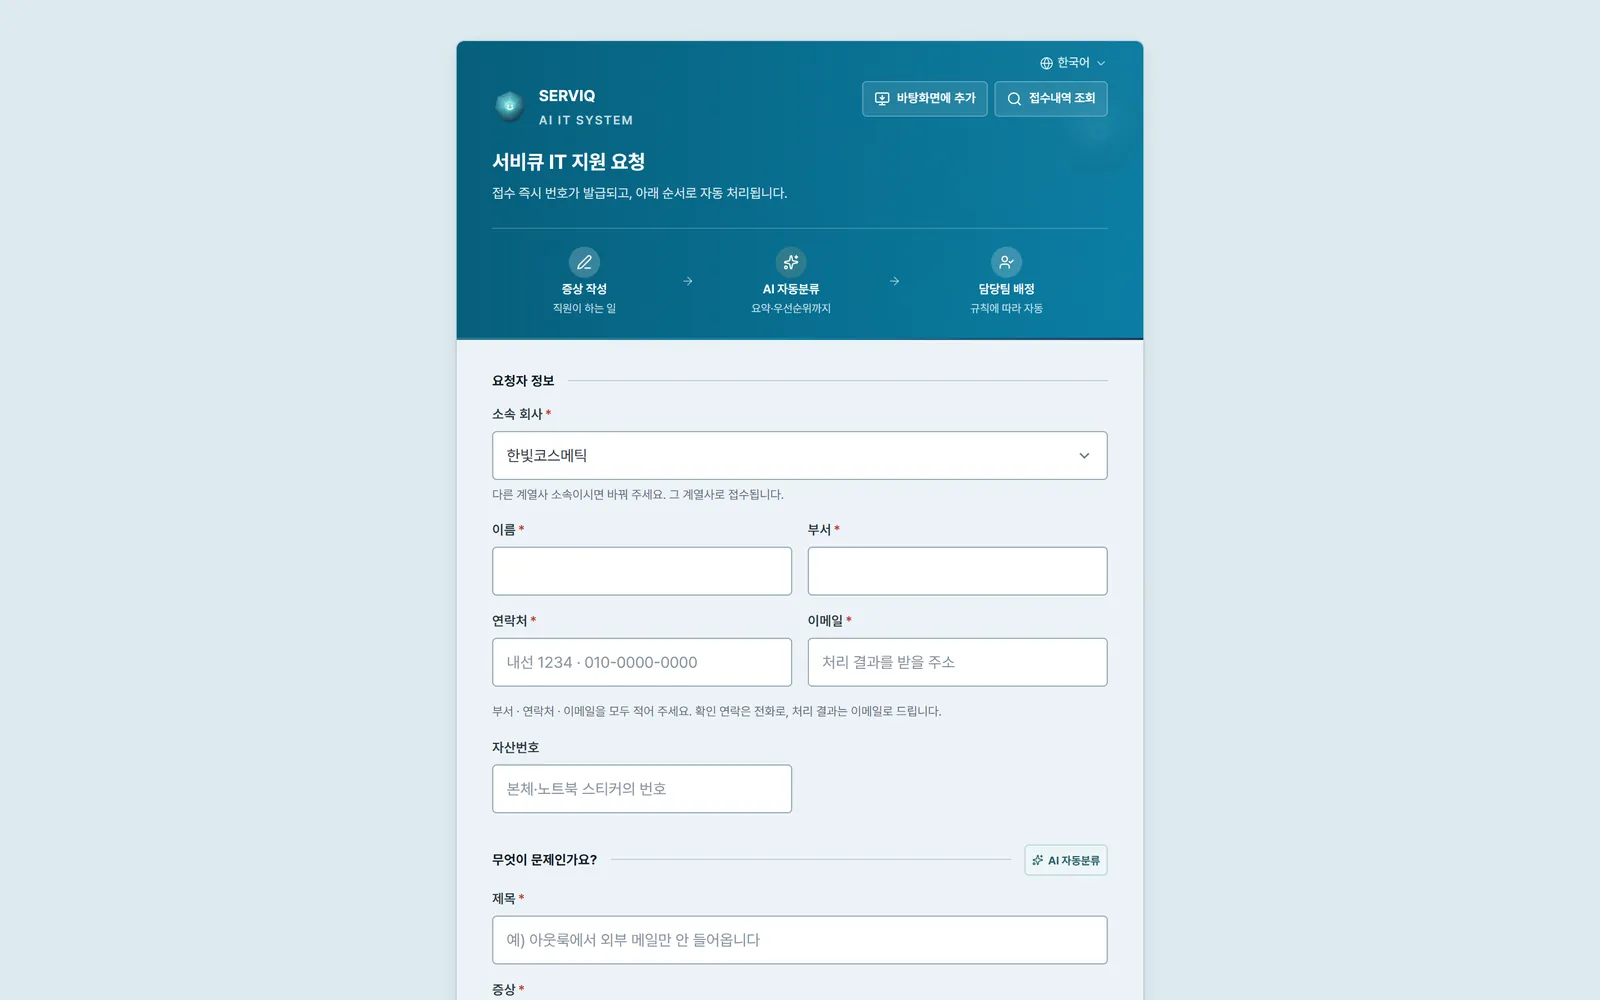
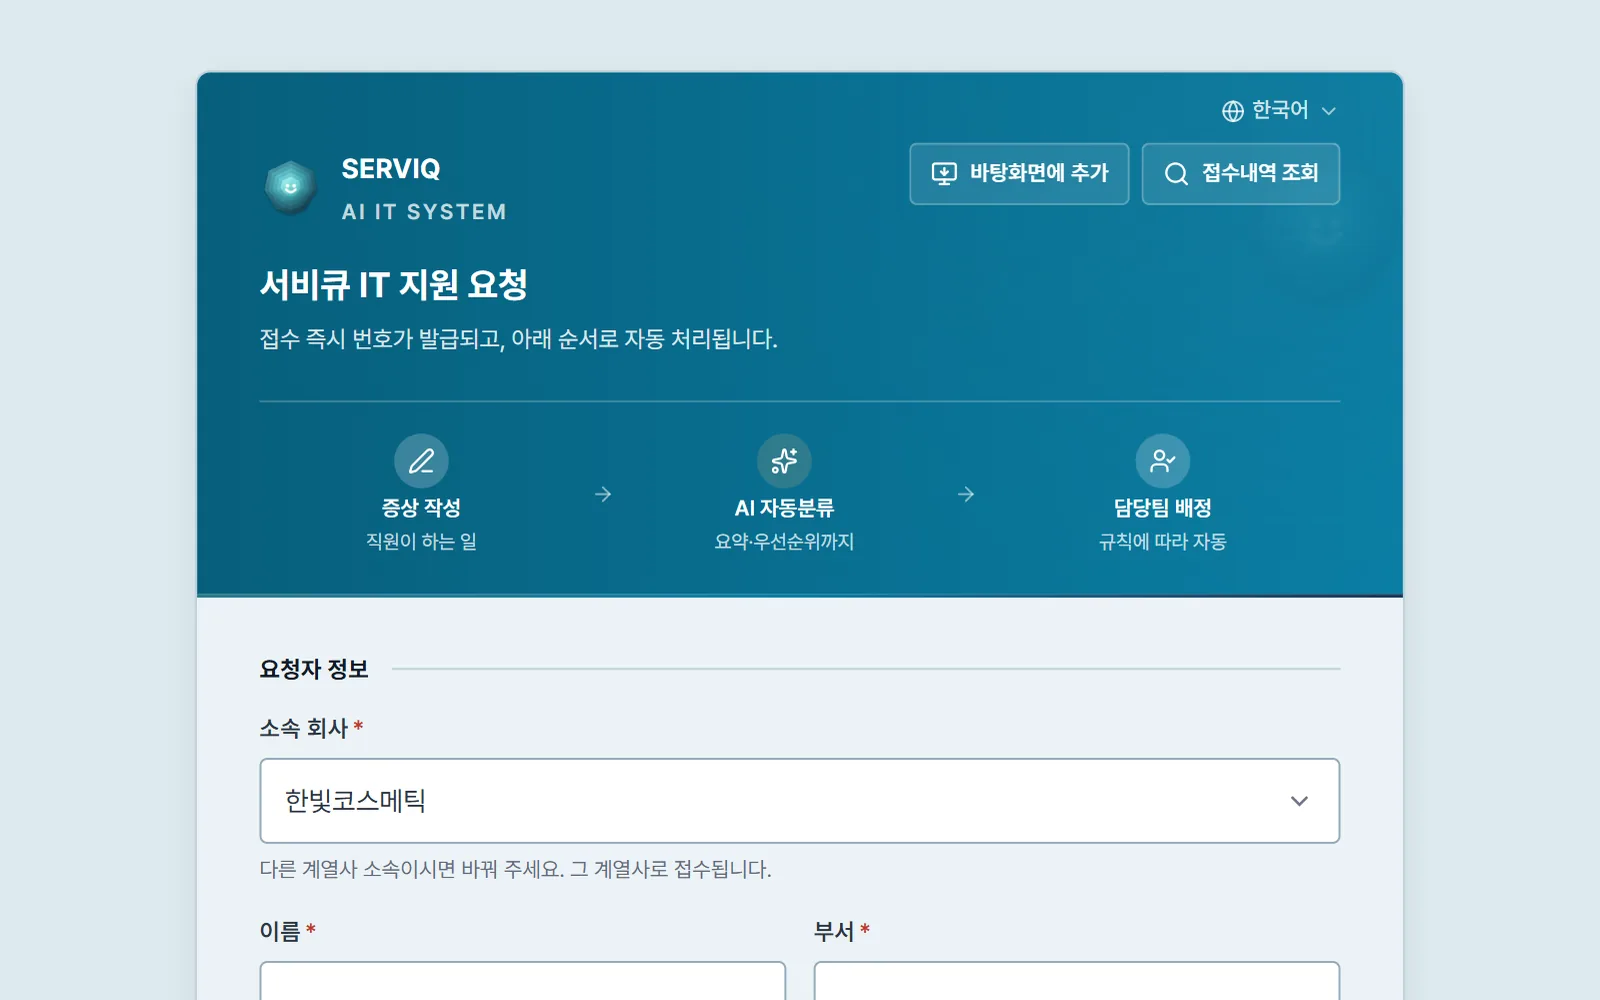
Recapture the SERVIQ intake tab at a narrower width

diff --git a/serviq/index.html b/serviq/index.html
@@ -201,7 +201,7 @@
 
     <div class="pd-panel" role="tabpanel" id="panel-intake" aria-labelledby="tab-intake">
       <figure class="pd-browser"><div class="pd-browser__bar" aria-hidden="true"><span class="pd-browser__dot"></span><span class="pd-browser__dot"></span><span class="pd-browser__dot"></span></div>
-        <img src="../img/serviq/intake.webp" width="1600" height="1000" alt="직원용 IT 지원 요청 화면 — 증상 작성 → AI 자동분류 → 담당팀 배정 안내, 소속 회사 · 이름 · 부서 · 연락처 · 문제 입력" /></figure>
+        <img src="../img/serviq/intake.webp?v=2" width="1600" height="1000" alt="직원용 IT 지원 요청 화면 — 증상 작성 → AI 자동분류 → 담당팀 배정 안내, 소속 회사 · 이름 · 부서 · 연락처 · 문제 입력" /></figure>
       <div>
         <h3 class="pd-panel__title">접수 화면</h3>
         <p class="pd-panel__desc">직원은 로그인 없이 회사 접수 링크에서 문제를 적습니다.</p>
